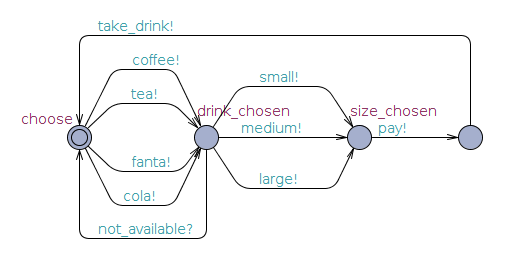
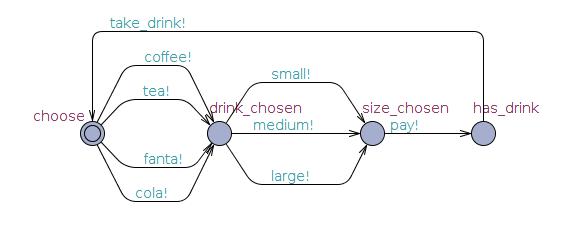
update exercise 3.2 uppaal model of concurrency

Changed region(s): [[0.0304, 0.0601, 0.9412, 0.9313]]

diff --git a/documentation/source/concurrency/exercises.rst b/documentation/source/concurrency/exercises.rst
@@ -314,7 +314,7 @@ Global Declarations:
 
     chan coffee,tea,cola,fanta;
     chan small,medium,large;
-    chan pay,take_drink,not_available;
+    chan pay,take_drink;
 
 Automaton Declarations:
 
